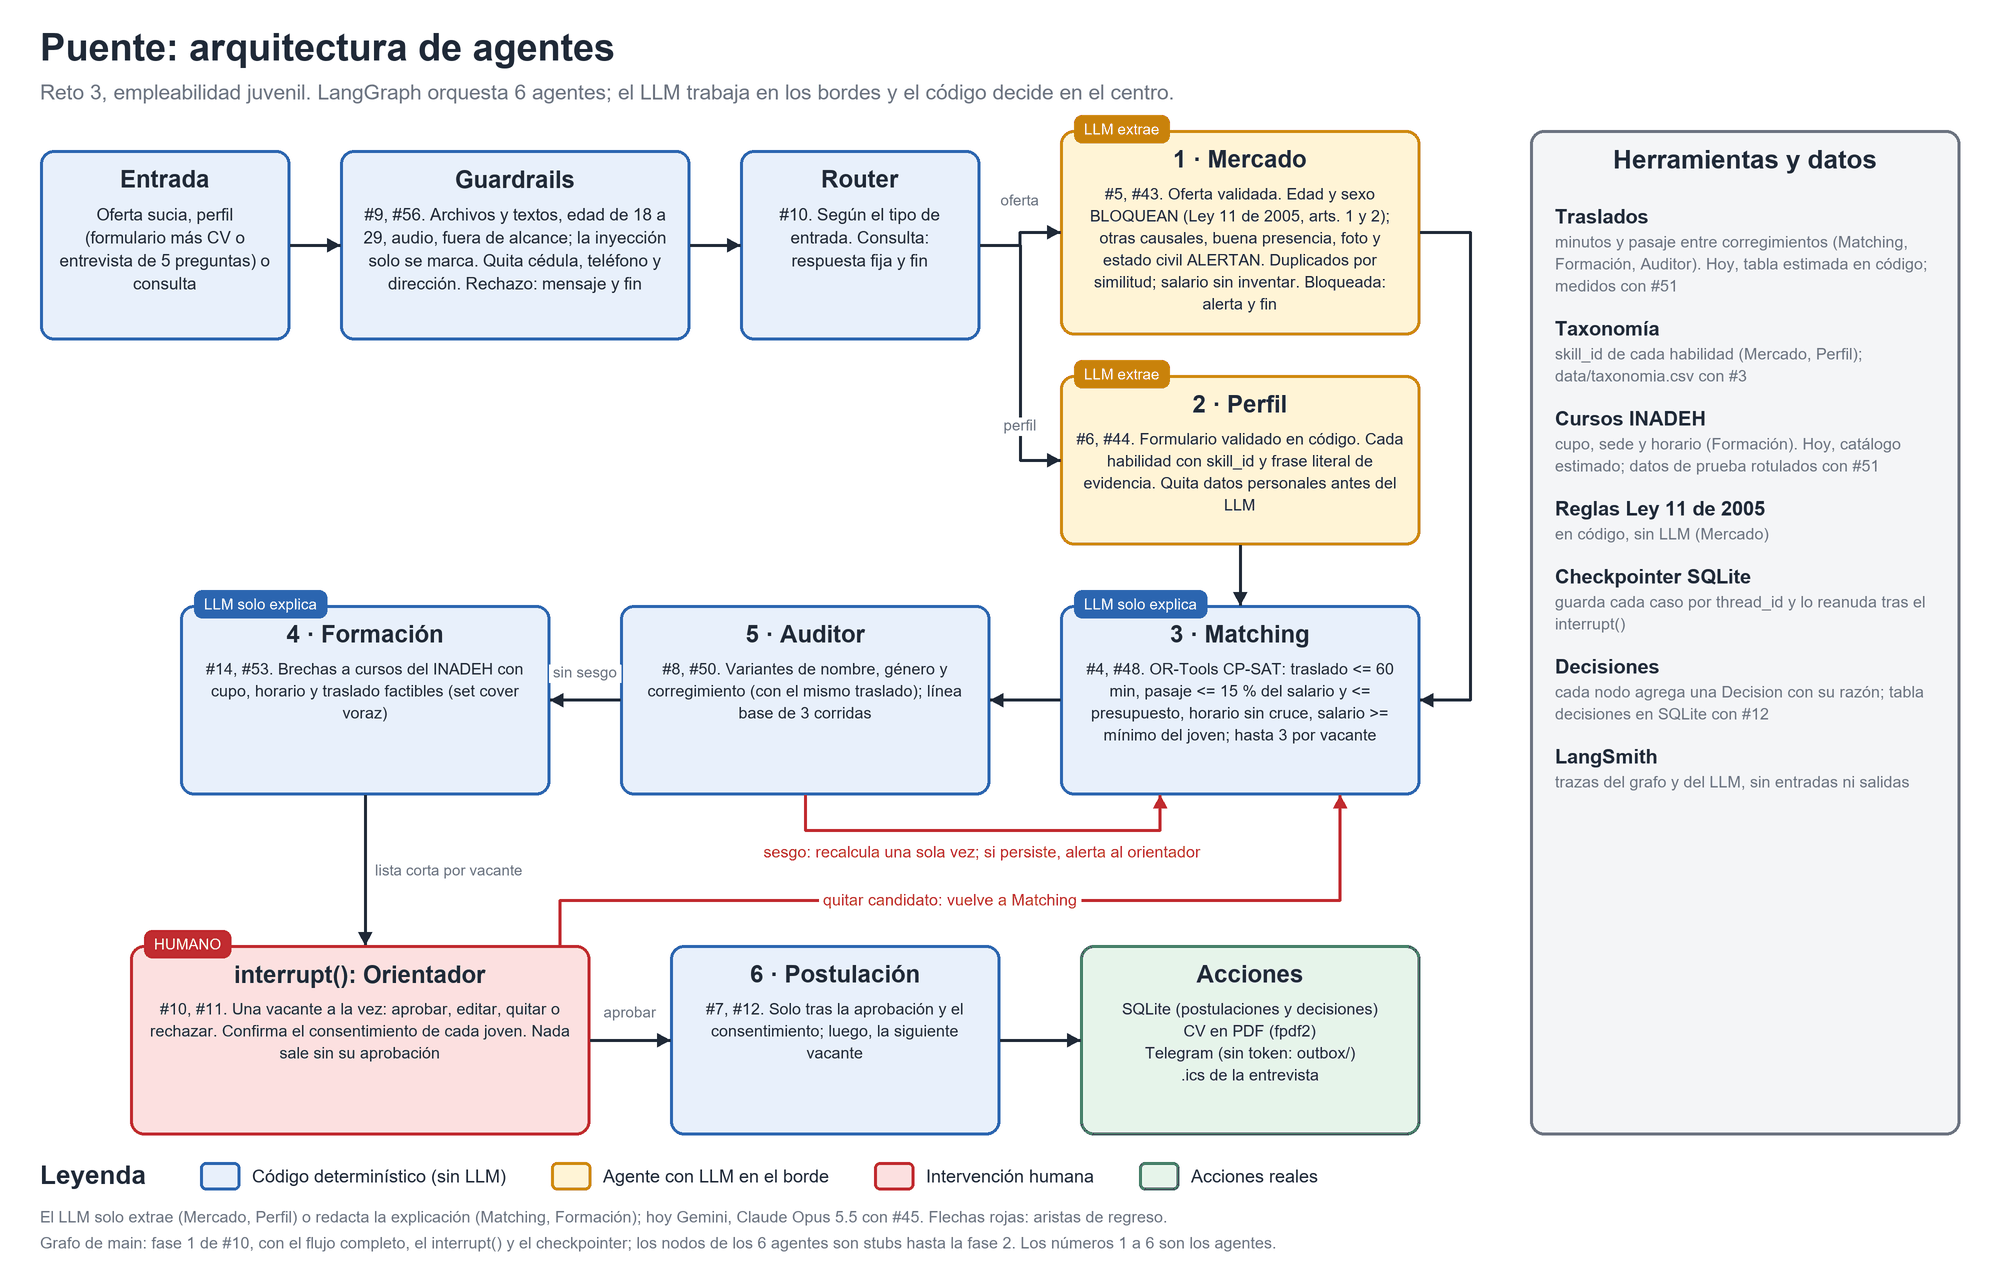
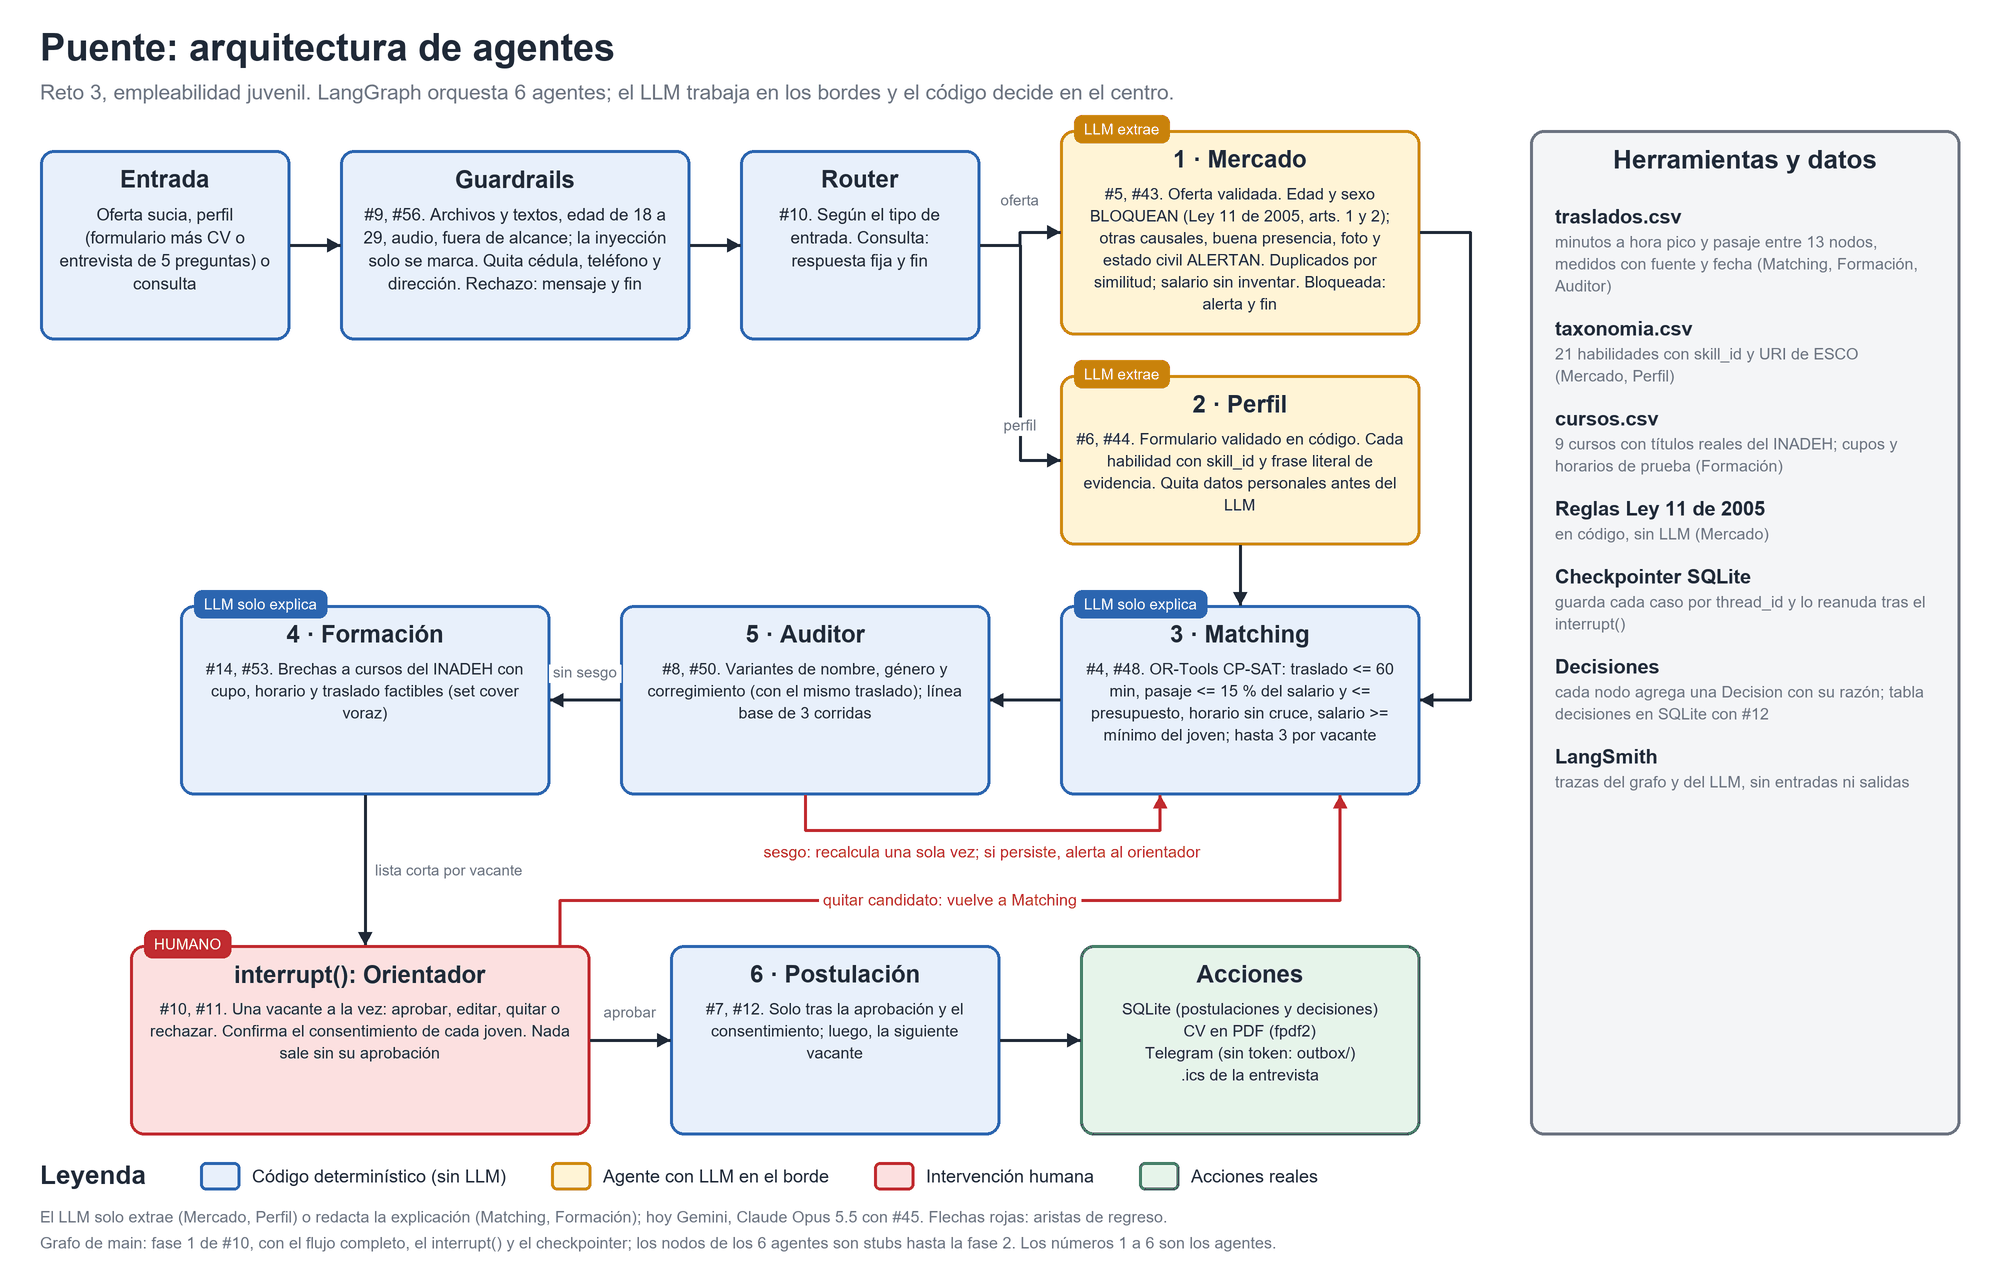
docs(entrega): traslados medidos, taxonomía y cursos de #51 en README, metodología y diagrama (#15)
- Fuentes de datos según data/FUENTES.md: dato medido, dato de prueba y
  supuesto del equipo; las tablas de código quedan como respaldo.
- Cobertura del reto: taxonomía ESCO y cursos del INADEH ya en main.
- Bitácora: la fusión por unión volvió a meter la fila de #50 con el |
  sin escapar; queda solo la corregida.

Changed region(s): [[0.775, 0.1535, 0.961, 0.3685]]

diff --git a/docs/generar_arquitectura.py b/docs/generar_arquitectura.py
@@ -188,9 +188,9 @@ def dibujar() -> Image.Image:
     d.rounded_rectangle(e(1530, 130, 1960, 1135), radius=14 * E, fill=relleno, outline=borde, width=3 * E)
     texto_centrado(d, 1745, 150, "Herramientas y datos", fuente(26, True))
     elementos = [
-        ("Traslados", "minutos y pasaje entre corregimientos (Matching, Formación, Auditor). Hoy, tabla estimada en código; medidos con #51"),
-        ("Taxonomía", "skill_id de cada habilidad (Mercado, Perfil); data/taxonomia.csv con #3"),
-        ("Cursos INADEH", "cupo, sede y horario (Formación). Hoy, catálogo estimado; datos de prueba rotulados con #51"),
+        ("traslados.csv", "minutos a hora pico y pasaje entre 13 nodos, medidos con fuente y fecha (Matching, Formación, Auditor)"),
+        ("taxonomia.csv", "21 habilidades con skill_id y URI de ESCO (Mercado, Perfil)"),
+        ("cursos.csv", "9 cursos con títulos reales del INADEH; cupos y horarios de prueba (Formación)"),
         ("Reglas Ley 11 de 2005", "en código, sin LLM (Mercado)"),
         ("Checkpointer SQLite", "guarda cada caso por thread_id y lo reanuda tras el interrupt()"),
         ("Decisiones", "cada nodo agrega una Decision con su razón; tabla decisiones en SQLite con #12"),

diff --git a/docs/metodologia.md b/docs/metodologia.md
@@ -62,15 +62,15 @@ Para reiniciar la demo desde cero se borran esos dos archivos y la carpeta `outb
    - Las ofertas repetidas se unen por similitud: mismo puesto y textos al menos 85 % parecidos. Gana la primera que llegó.
 4. **Perfil (#6, #44).** Yaritza llena un formulario fijo que se valida en código: edad, corregimiento, horario de clases y horario libre, salario mínimo y presupuesto diario de pasaje. Como no tiene CV, responde una entrevista de 5 preguntas sobre lo que sabe hacer. La entrevista ocurre fuera del grafo, por terminal o en el tablero (#52), y entra completa como un solo dato.
    - Antes de llamar al LLM se quitan cédula, teléfono y dirección exacta; solo queda el corregimiento.
-   - Cada habilidad lleva su `skill_id` y una frase literal de Yaritza que la evidencia. La taxonomía real es `data/taxonomia.csv` (pendiente de #3). Lo que no está en la taxonomía se descarta y se registra.
+   - Cada habilidad lleva su `skill_id` y una frase literal de Yaritza que la evidencia. La taxonomía es `data/taxonomia.csv`: 21 habilidades enlazadas a ESCO (#51). Lo que no está en la taxonomía se descarta y se registra.
 5. **Matching (#4, #48).** OR-Tools CP-SAT asigna sin LLM y con resultado reproducible (un solo hilo y semilla fija). Restricciones duras:
    - Traslado <= 60 minutos desde el corregimiento del joven. Si no hay dato de traslado para el par, no es viable.
-   - Pasaje mensual (ida y vuelta, 22 días) <= 15 % del salario, y pasaje diario <= el presupuesto del joven.
+   - Pasaje mensual (ida y vuelta por los días laborables; 22 por defecto en el solver) <= 15 % del salario, y pasaje diario <= el presupuesto del joven.
    - Horario sin cruce con sus clases y dentro de su horario libre.
    - Salario >= el mínimo que pide el joven.
    - Hasta 3 candidatos por vacante.
 
-   Los minutos y pasajes salen hoy de una tabla de respaldo estimada en `puente/rules/traslados.py`, no de mediciones. `data/traslados.csv`, medido en Google Maps a hora pico con fecha y método, está pendiente de #51.
+   Los minutos y pasajes salen de `data/traslados.csv`, medido a hora pico con Google Maps Transit y Moovit y las tarifas de MiBus, el Metro y la ATTT (#51). Para Yaritza, por ejemplo, La Chorrera a Tocumen son 95 minutos y queda fuera; a Calidonia son 55. Los umbrales de 60 minutos y 15 % son supuestos del equipo, rotulados así en `data/FUENTES.md`.
 
    El LLM solo redacta por qué cada match puntúa como puntúa; no cambia puntajes ni viabilidad.
 6. **Auditor (#8, #50).** Vuelve a correr Perfil y Matching con variantes contrafactuales:
@@ -78,7 +78,7 @@ Para reiniciar la demo desde cero se borran esos dos archivos y la carpeta `outb
    - otro corregimiento que conserva la misma fila de traslados. Así se mide si el resultado cambia solo por el nombre del lugar, sin tocar el traslado real, que es una restricción legítima.
 
    Una línea base de 3 corridas del perfil original descuenta la variación propia del LLM. Si una variante cambia el resultado, el grafo recalcula una sola vez. Si la diferencia persiste, no hay bucle: pasa al orientador como alerta.
-7. **Formación (#14, #53).** Para las brechas de habilidades, propone cursos del INADEH con cupo, horario sin cruce con las clases, traslado <= 60 minutos y pasaje dentro del presupuesto. El algoritmo es un set cover voraz. Hoy usa un catálogo estimado de respaldo en `puente/agents/formacion.py`. `data/cursos.csv`, con cupos y horarios rotulados como datos de prueba, está pendiente de #51.
+7. **Formación (#14, #53).** Para las brechas de habilidades, propone cursos del INADEH con cupo, horario sin cruce con las clases, traslado <= 60 minutos y pasaje dentro del presupuesto. El algoritmo es un set cover voraz. Los cursos salen de `data/cursos.csv` (#51): 9 cursos con títulos reales del INADEH, cuyos cupos y horarios son datos de prueba rotulados como tales.
 8. **Orientador, con `interrupt()` (#10, #11).** El grafo se detiene en cada vacante con su lista corta. El orientador:
    - ve los candidatos con su puntaje y sus brechas, la alerta del Auditor y el mensaje sugerido para la empresa;
    - confirma el consentimiento de cada joven;
@@ -104,7 +104,7 @@ Para reiniciar la demo desde cero se borran esos dos archivos y la carpeta `outb
 - **Decisiones.** Cada nodo agrega una `Decision` (agente, resumen de entrada y salida, razón y hora) al estado del grafo, y el checkpointer las guarda con el caso. Al final de la demo, el grafo imprime la cadena de agentes que decidieron. La copia en la tabla `decisiones` de SQLite llega con #12.
 - **LangSmith.** Se activa solo con `LANGSMITH_TRACING=true` y `LANGSMITH_API_KEY`, y oculta entradas y salidas con `LANGSMITH_HIDE_INPUTS` y `LANGSMITH_HIDE_OUTPUTS`.
 
-**Datos.** Los datos de personas son siempre sintéticos. Las fuentes de cada archivo van en `data/FUENTES.md` (pendiente de #3). Los traslados y cursos que muestra hoy el sistema son estimados de respaldo, no mediciones.
+**Datos.** Los datos de personas son siempre sintéticos. `data/FUENTES.md` documenta la fuente de cada archivo y separa dato medido (traslados, taxonomía), dato de prueba (cupos y horarios de cursos, perfiles) y supuesto del equipo (umbrales del solver). Si falta un CSV, el código usa una tabla de respaldo estimada que no debe presentarse como medición. Las ofertas y perfiles de `data/` están pendientes de #3.
 
 ## Arquitectura
 
@@ -157,7 +157,7 @@ El registro completo de decisiones de stack, arquitectura y forma de trabajo est
 
 Hoy el solver usa un máximo fijo de 60 minutos y resta los minutos en el puntaje de cada par. El máximo por joven, que el puntaje no castigue la distancia y los umbrales con fuente son #48.
 
-**3. Datos de prueba rotulados.** Las personas son sintéticas (Yaritza Ficticia, Carlos Ficticio) y las empresas llevan nombres de prueba (Minisúper Ficticio El Ahorro). Los cupos y horarios de los cursos del INADEH son datos de prueba y así se rotulan. Los traslados son estimados hasta que #51 los mida. Ninguna cifra de la demo se presenta como medición real.
+**3. Datos de prueba rotulados.** Las personas son sintéticas (Yaritza Ficticia, Carlos Ficticio) y las empresas llevan nombres de prueba (Minisúper Ficticio El Ahorro). Los cupos y horarios de los cursos del INADEH son datos de prueba y así se rotulan. Los traslados sí están medidos, con fuente y fecha, y los umbrales de 60 minutos y 15 % se declaran como supuestos del equipo (`data/FUENTES.md`, #51). Ninguna cifra de prueba se presenta como medición real.
 
 **4. Menores de 18 fuera de la demo, como trabajo futuro.** La demo atiende de 18 a 29 años, y el guardrail rechaza otras edades. El grupo de 15 a 19 años tiene la tasa de desocupación más alta según el INEC, pero contratar a menores de edad tiene reglas propias que el sistema todavía no modela. Queda como trabajo futuro, no como un caso que se resuelve a medias.
 

diff --git a/README.md b/README.md
@@ -37,10 +37,10 @@ El grafo de `main` es la fase 1 de #10: recorre todo el flujo, con el `interrupt
 
 | Agente sugerido (5.4) | En Puente | Issue | Estado | Qué falta |
 |---|---|---|---|---|
-| 1. Inteligencia de mercado: normaliza ofertas a una taxonomía, detecta requisitos y extrae tendencias | Agente Mercado y reglas de la Ley 11 de 2005 en código | #5, #43 | Parcial | Entrar al grafo (#10 fase 2); la taxonomía real, `data/taxonomia.csv` (pendiente de #3); tendencias del mercado |
+| 1. Inteligencia de mercado: normaliza ofertas a una taxonomía, detecta requisitos y extrae tendencias | Agente Mercado, reglas de la Ley 11 de 2005 en código y taxonomía enlazada a ESCO | #5, #43, #51 | Parcial | Entrar al grafo (#10 fase 2); tendencias del mercado |
 | 2. Perfil: lee el CV y entrevista para descubrir habilidades no declaradas | Agente Perfil: formulario fijo, CV o entrevista de 5 preguntas, habilidades con evidencia literal | #6, #44 | Parcial | Entrar al grafo (#10 fase 2); la entrevista de Yaritza en el tablero (#52); notas de voz (#55) |
 | 3. Matching: asignación con capacidades y restricciones de transporte, horario y salario | Solver CP-SAT con restricciones duras | #4, #48 | Parcial | Entrar al grafo (#10 fase 2); tope por joven y umbrales con fuente (#48) |
-| 4. Ruta de formación: plan de cursos con cupos, horarios, costo y transporte | Agente Formación, set cover voraz (no óptimo) | #14, #53 | Parcial | Entrar al flujo principal (#53); cupos y horarios rotulados como datos de prueba (#51) |
+| 4. Ruta de formación: plan de cursos con cupos, horarios, costo y transporte | Agente Formación, set cover voraz (no óptimo), sobre 9 cursos del INADEH | #14, #51, #53 | Parcial | Entrar al flujo principal (#53) |
 | 5. Postulación: adapta CV, agenda entrevistas y envía listas cortas | Herramientas de Postulación: SQLite, CV en PDF, Telegram con respaldo, `.ics` | #7, #12 | Parcial | Conectarla al grafo tras la aprobación (#12); carta por oferta y CV ciego |
 | 6. Entrevista simulada con retroalimentación | No se construye | — | Fuera de alcance | — |
 | 7. Auditor: mide sesgo por nombre, género o corregimiento y bloquea ofertas discriminatorias | Agente Auditor v2; el bloqueo de ofertas lo hacen las reglas de Mercado | #8, #50, #5 | Parcial | Entrar al grafo (#10 fase 2) |
@@ -121,20 +121,15 @@ El `interrupt()` del orientador va antes de Postulación: sin su aprobación y s
 
 ## Fuentes de datos
 
-Los datos de personas son siempre sintéticos, y las empresas de la demo llevan nombres de prueba. Las ofertas no llevan datos personales. Cada archivo de datos se documentará con su fuente en `data/FUENTES.md` (pendiente de #3).
+Los datos de personas son siempre sintéticos, y las empresas de la demo llevan nombres de prueba. Las ofertas no llevan datos personales. [`data/FUENTES.md`](data/FUENTES.md) documenta cada archivo con su fuente y separa lo que es dato medido, dato de prueba y supuesto del equipo (#51).
 
-- Traslados (minutos y pasaje entre corregimientos): `data/traslados.csv` (pendiente de #3 y #51).
-- Cursos con cupo y sede: `data/cursos.csv` (pendiente de #3 y #51).
-- Taxonomía de habilidades con `skill_id`: `data/taxonomia.csv` (pendiente de #3). Mientras no exista, Mercado descarta todas las habilidades, y el modo terminal de Perfil usa la taxonomía mínima de prueba `tests/fixtures/taxonomia_mini.csv`.
-- Ofertas y perfiles sintéticos: carpetas `data/ofertas/` y `data/perfiles/` (pendiente de #3). El caso de la demo del grafo está en `tests/fixtures/caso_yaritza.json`.
+- **Traslados**, `data/traslados.csv`. Dato medido: minutos en transporte público a hora pico (07:00) consultados en Google Maps Transit y Moovit el 2026-10-16, y pasajes con las tarifas de MiBus, el Metro y la ATTT. Cubre 13 nodos de Panamá Oeste, el centro, San Miguelito y Panamá Este; `puente/rules/traslados.py` resuelve barrios y terminales a su nodo con una tabla de alias. Por ejemplo, La Chorrera a Tocumen son 95 minutos y US$2.35 por viaje.
+- **Taxonomía**, `data/taxonomia.csv`. 21 habilidades, cada una con su `skill_id`, sinónimos y su URI de la clasificación europea ESCO.
+- **Cursos**, `data/cursos.csv`. 9 cursos con títulos y áreas reales de la oferta del INADEH. **Los cupos y los horarios son datos de prueba**, rotulados así para probar las restricciones de Formación.
+- **Supuestos del equipo**, configurables en el solver: el máximo de 60 minutos por trayecto, el tope de 15 % del salario para el pasaje y que la ida y la vuelta duran y cuestan lo mismo.
+- **Ofertas y perfiles**: carpetas `data/ofertas/` y `data/perfiles/` (pendiente de #3). El caso de la demo del grafo está en `tests/fixtures/caso_yaritza.json`.
 
-**Aviso: los traslados y los cursos de hoy son estimados, no mediciones.** Mientras no existan `data/traslados.csv` y `data/cursos.csv` (pendiente de #51, medidos en Google Maps a hora pico, con fecha y método), el sistema usa tablas de respaldo estimadas en código:
-
-- la matriz de traslados de `puente/rules/traslados.py`;
-- el catálogo de cursos de `puente/agents/formacion.py`;
-- los casos de ejemplo fijos del tablero en `app/server.py`.
-
-Los minutos y pasajes que se ven hoy en la demo (por ejemplo, 95 minutos de La Chorrera a Tocumen) salen de esas tablas y no deben presentarse como datos medidos.
+Si falta un CSV, el código cae a una tabla de respaldo estimada: la matriz de `puente/rules/traslados.py` o el catálogo de `puente/agents/formacion.py`. Los casos de ejemplo del tablero, en `app/server.py`, son fijos y de prueba.
 
 ## Instalación y ejecución
 
@@ -265,7 +260,7 @@ Qué partes se hicieron con IA, con qué herramienta y qué se modificó a mano.
 | Guardrails | #9, #56 | Claude Code (nube) | Nada registrado todavía |
 | Tablero | #11, #33 | Antigravity (Gemini) | Reemplazo de Streamlit por un servidor ASGI con HTML, CSS y JS limpios; verificación de los artefactos de `outbox/`; ADR en `docs/decisiones.md` y pruebas de regresión |
 | Evals | #13 | Claude Code (flujo implementar-issues) | Pendiente: la rama de #13 aún no está en `main` |
-| Datos | #3 | Codex (ChatGPT) | Sin edición humana registrada; pendiente: PR #27 sin fusionar, su fila de bitácora aún no está en `main` |
+| Datos | #3, #51 | Codex (ChatGPT) en #3; Antigravity (Gemini) en #51 | #51: revisión de los pares de Yaritza (La Chorrera a San Miguelito, Tocumen y Calidonia) y de las tarifas de ATTT, MiBus y Metro. #3: PR #27 sin fusionar, su fila aún no está en `main` |
 
 Otras partes hechas con IA, también registradas en la bitácora (la herramienta se copia de sus filas):
 

diff --git a/docs/bitacora_ia.md b/docs/bitacora_ia.md
@@ -56,5 +56,5 @@ Cada uso de IA se anota en el momento: hora, quién, herramienta, qué se pidió
 | 2026-10-16 23:08 | Cornelio-Guerra | Claude Code (nube) | #43 · rebase sobre main tras #42 (PR #61) y #44 (PR #59): conflicto en mercado.py resuelto con la representación única del contrato v2; verificar_salario ya no devuelve tipo propio, solo (salario o None, nota); la Oferta sin salario publicado queda con salario_mensual=None y salario_tipo=no_publicado, y la Decision lista requiere_confirmacion con Oferta.por_confirmar(); tests de Konzerta y verificar_salario ajustados; filas de bitácora de ambos lados conservadas; 436 passed | nada todavía |
 | 2026-10-16 18:10 | Migue0714 | Antigravity (Gemini) | #50 · Auditor v2 en `puente/agents/auditor.py` y `tests/test_auditor.py`: incremento de `reintentos_auditor` con tope de 1 recálculo sin bucle, línea base de 3 corridas, marcadores de concordancia `{masc/fem}`, variante de corregimiento con misma fila de traslados y flecha `Auditor -> Perfil / orientador` en `AGENTS.md` | Verificación manual del corte de bucle hacia orientador (`diff_orientador`) y filtrado de ruido de línea base |
 | 2026-10-16 18:37 | jesus12ga | Claude Code (Opus 5.5) | #15 · revisión del PR #57 y puesta al día con main: README (cobertura del reto 5.4, requisitos, Auditor v2, Mercado v2, Perfil v2, grafo fase 1, guardrails v2, nivel agéntico), metodología con decisiones de diseño, diagrama regenerado con docs/generar_arquitectura.py y pruebas de docs ajustadas | cifras del INEC verificadas a mano en el PDF de la fuente; se quitó el 19.9 % de prensa como pide #47; fila de #50 en la bitácora con la barra vertical cambiada por / para que la tabla no se rompa |
-| 2026-10-16 18:10 | Migue0714 | Antigravity (Gemini) | #50 · Auditor v2 en `puente/agents/auditor.py` y `tests/test_auditor.py`: incremento de `reintentos_auditor` con tope de 1 recálculo sin bucle, línea base de 3 corridas, marcadores de concordancia `{masc|fem}`, variante de corregimiento con misma fila de traslados y flecha `Auditor -> Perfil / orientador` en `AGENTS.md` | Verificación manual del corte de bucle hacia orientador (`diff_orientador`) y filtrado de ruido de línea base |
 | 2026-10-16 18:35 | Migue0714 | Antigravity (Gemini) | #51 · `data/traslados.csv` con `fuente` y `fecha_medicion` (13 nodos canónicos + tabla de alias en `puente/rules/traslados.py`), `data/cursos.csv` con 9 cursos de INADEH mapeados a `data/taxonomia.csv`, `data/FUENTES.md` diferenciando dato medido vs prueba vs supuesto, y `tests/test_datos_51.py` | Revisión de pares Yaritza (La Chorrera -> San Miguelito 65 min, Tocumen 95 min, Calidonia 55 min) y tarifas ATTT/MiBus/Metro |
+| 2026-10-16 18:41 | jesus12ga | Claude Code (Opus 5.5) | #15 · traer #51 a la rama y actualizar README, metodología y diagrama: traslados medidos, taxonomía ESCO y cursos INADEH con cupos de prueba, según data/FUENTES.md | se verificaron a mano en data/traslados.csv los pares de Yaritza citados; se quitó la copia rota de la fila de #50 que reintrodujo la fusión por unión |
